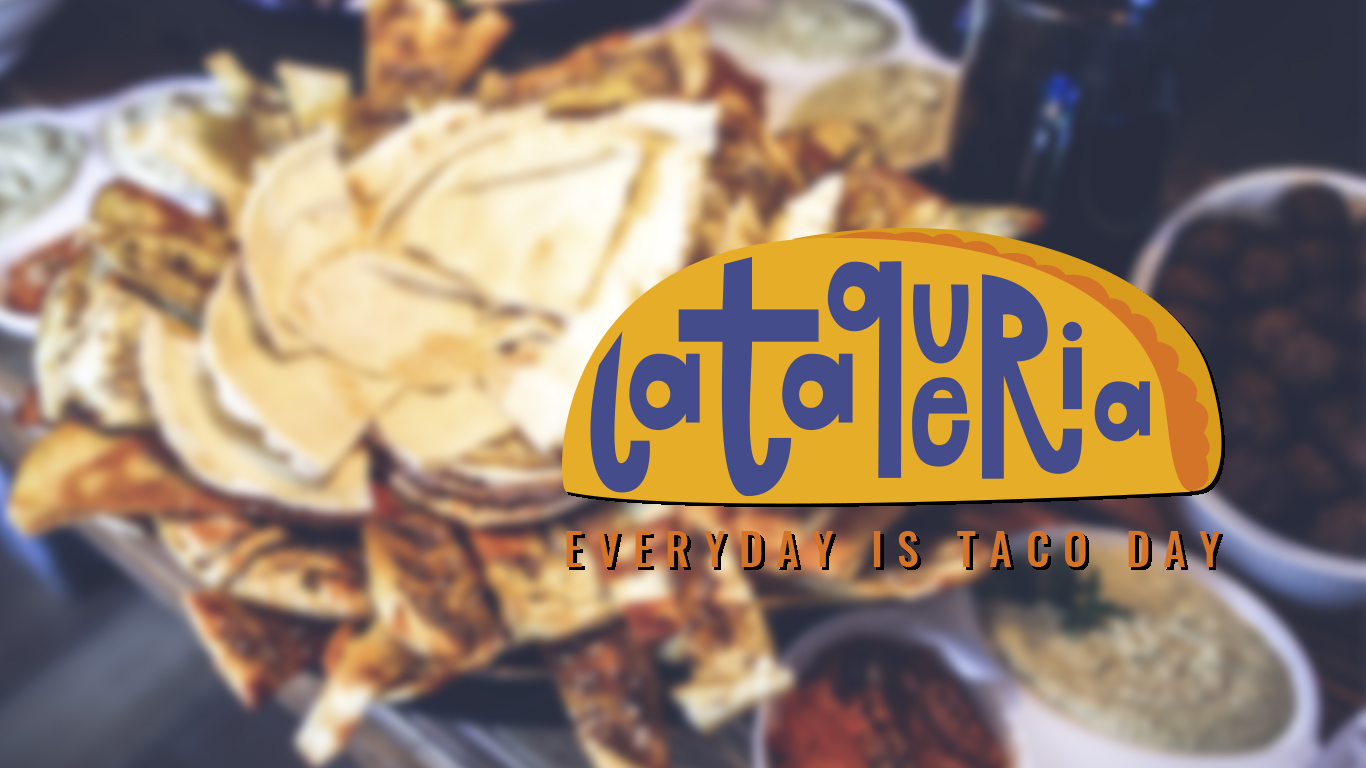
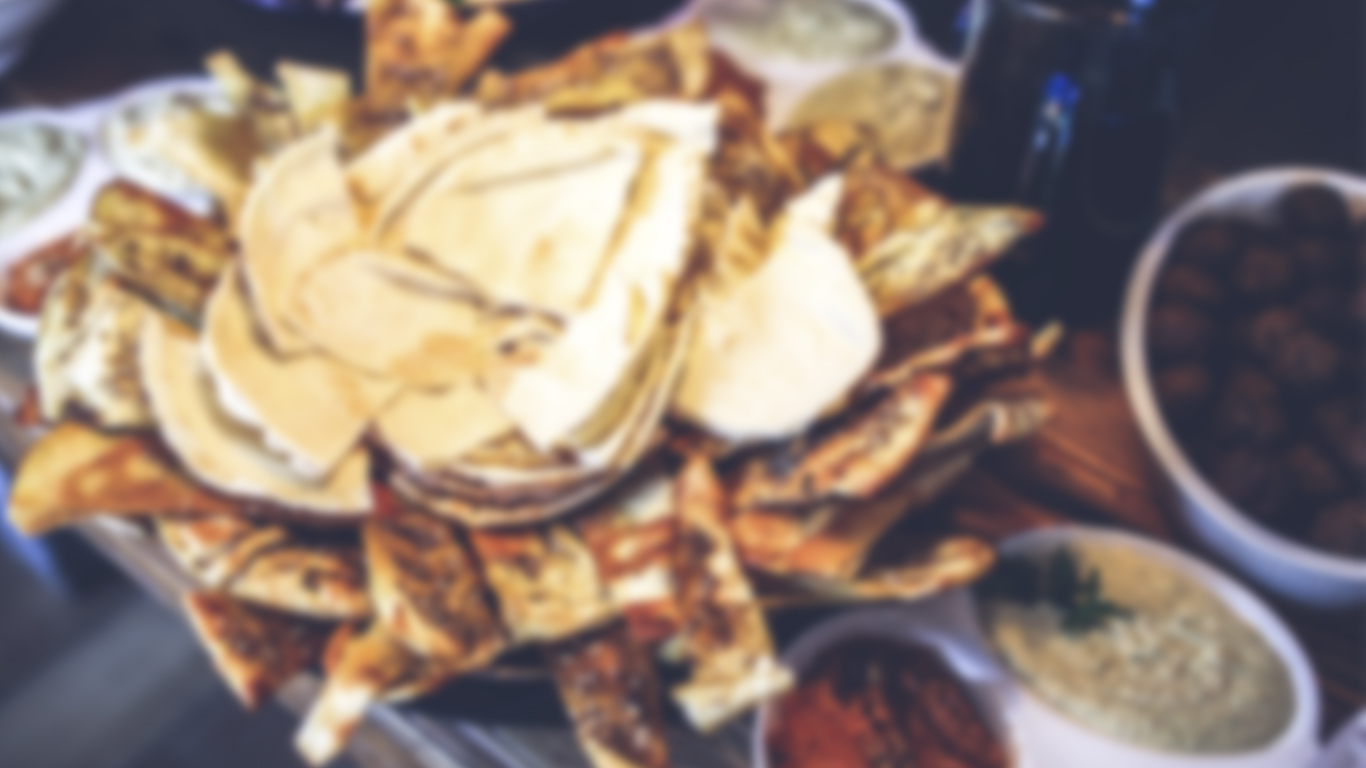
aanpassing

Changed region(s): [[0.3997, 0.2812, 0.9224, 0.75]]

diff --git a/index.html b/index.html
@@ -62,7 +62,6 @@
             <div class="col-sm-12 header">
                     <h1>La Taqueria</h1>
                     <a class="btn btn-primary" href="team.html" role="button">Ontdek ons team</a>
-                    <img src="images/home.jpg" class="img-fluid" alt="banner-home">
             </div>
         </div>
         <div class="row">
@@ -82,9 +81,15 @@
                 </div>
         </div>
         <div class="row">
-            <div class="col-6 col-lg-4" style="background-color: lightblue">foto</div>
-            <div class="col-6 col-lg-4" style="background-color: lightgreen">foto</div>
-            <div class="col-sm-6 col-lg-4 hidden-md-down" style="background-color: lightblue">foto</div>
+            <div class="col-6 col-lg-4 taco">
+                <img src="images/taco.jpg" class="img-fluid" alt="taco">
+            </div>
+            <div class="col-6 col-lg-4 taco">
+                <img src="images/taco2.jpg" class="img-fluid" alt="taco">
+            </div>
+            <div class="col-sm-6 col-lg-4 hidden-md-down taco">
+                <img src="images/taco3.jpg" class="img-fluid" alt="taco">
+            </div>
         </div>
         <div class="row">
             <div class="col-sm-12 col-lg-6" style="background-color:lightgrey">

diff --git a/team.html b/team.html
@@ -71,7 +71,9 @@
             <div class="col-6" style="background-color: lightgreen">foto baas</div>
         </div>
         <div class="row">
-            <div class="col-6 col-lg-3" style="background-color:lightgreen">foto medewerker</div>
+            <div class="col-6 col-lg-3">
+                <img src="images/werknemer1.jpeg" class="werknemer1" alt="werknemer1">
+            </div>
             <div class="col-6 col-lg-3" style="background-color: lightblue">
                     <h2>Voornaam naam medewerker</h2>
                     <h3>Lorem ipsum</h3>
@@ -96,15 +98,8 @@
         </div>
         <div class="row">
             <div class="col-sm-12" style="background-color:lightgrey">
-                    <h1>Contact</h1>
+                    <h1>Filmpje</h1>
                     <h3>Lorem ipsum dolor</h3>
-            </div>
-        </div>
-        <div class="row">
-            <div class="col-sm-12 col-lg-6" style="background-color:grey">Contact invulveld</div>
-            <div class="col-sm-12 col-lg-6" style="background-color:grey">
-                <p>Contact invulveld</p><br>
-                    <a class="btn btn-primary" href="#" role="button">Verzenden</a>
             </div>
         </div>
         <div class="row">

diff --git a/css/style.css b/css/style.css
@@ -40,5 +40,18 @@ p {
     margin-top: 10px; 
 }
 .header {
-    height: 300px; 
+    background-color: tomato;
+    height: 400px; 
+}
+.taco {
+    margin: 0;
+    padding: 10px; 
+    width: 100%;
+    height: auto; 
+}
+.werknemer1 {
+    width: 100%;  
+    height: auto; 
+    padding: 0;
+    margin: 0;
 }
